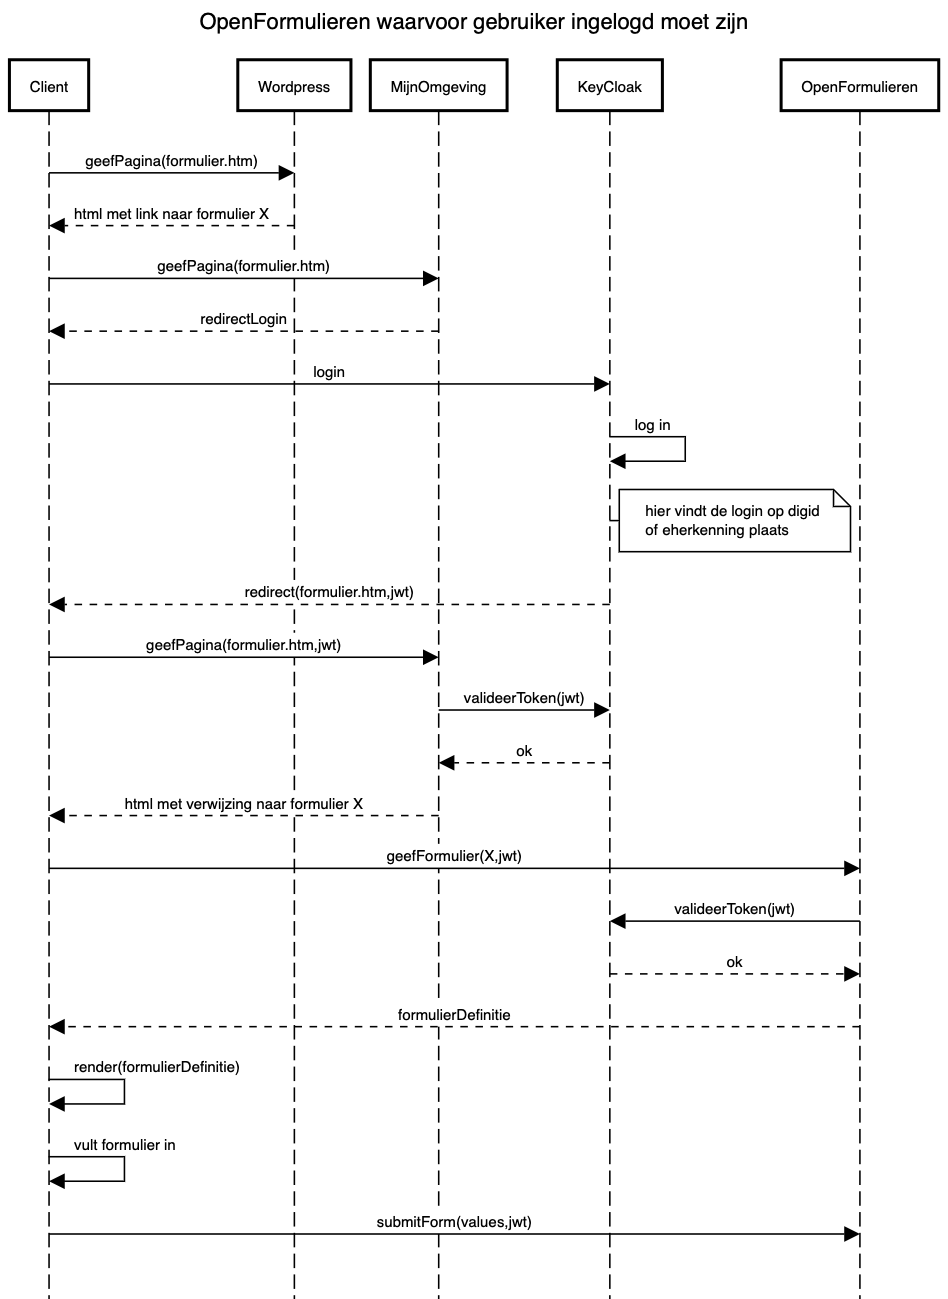
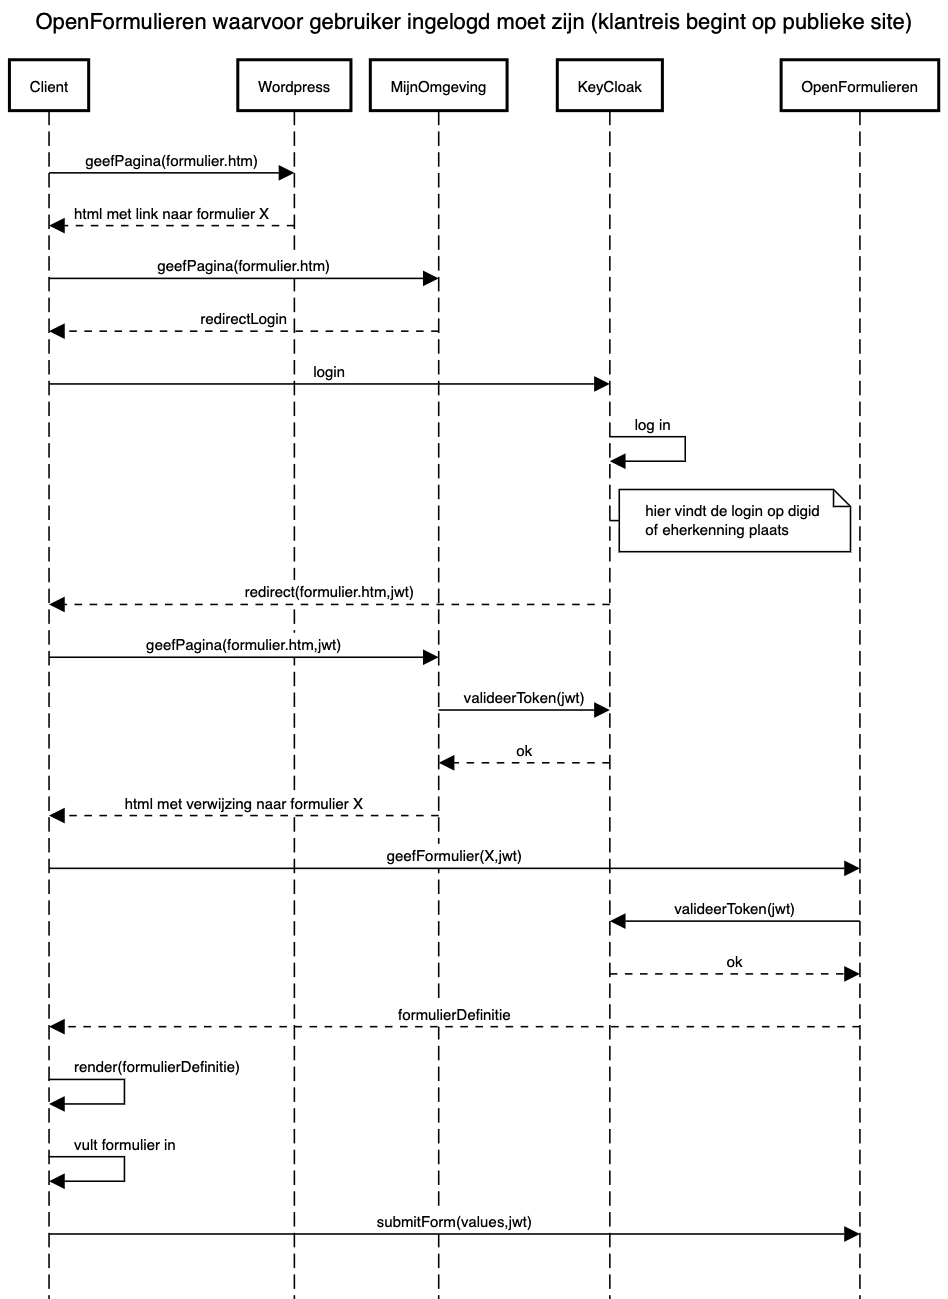
no message

Changed region(s): [[0.0306, 0.0, 0.9483, 0.0308]]

diff --git a/componenten/openformulieren.rst b/componenten/openformulieren.rst
@@ -20,14 +20,19 @@ Sequence diagrammen Open Formulieren
 ==========================================================================
 
 
+In onze opzet van denhaag.nl gebruiken we wordpress als CMS. In het CMS kan met een component een formulier op een pagina gezet worden. Onder water wordt het formulier ingeladen vanaf openformulieren, maar voor de burger staat het in de website.
+
 .. figure:: /images/ssd/formulierpubliek.png
    :alt: SSD van gebruik van een publiek formulier
 
    SSD van gebruik van een publiek formulier
 
 
-.. figure:: /images/ssd/formulierlogin.png
-   :alt: SSD van gebruik van een login formulier
+Binnen de portal werkt het vergelijkbaar; ook hier staat het formulier in openformulieren maar wordt het voor de burger ingeladen alsof het in de portal staat.
 
-   SSD van gebruik van een login formulier
+
+.. figure:: /images/ssd/formulierlogin.png
+   :alt: SSD van gebruik van een formulier in de portal
+
+   SSD van gebruik van een formulier in de portal waarvoor klant ingelogd moet zijn
 
